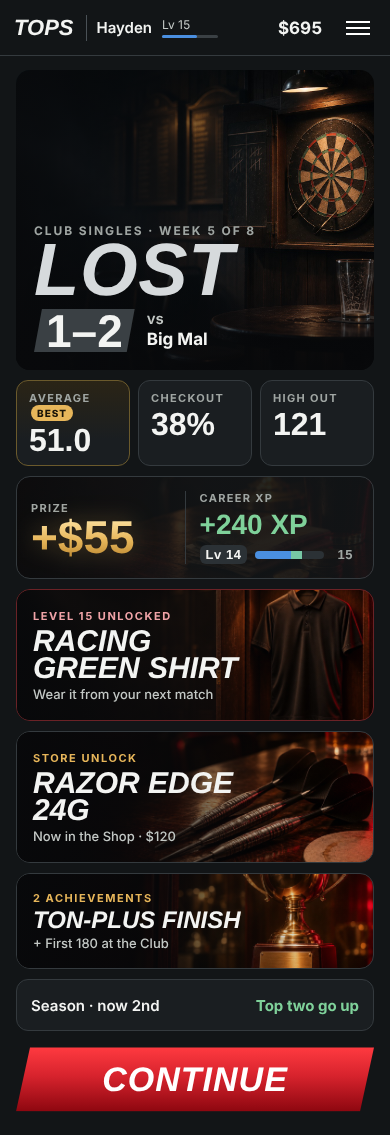
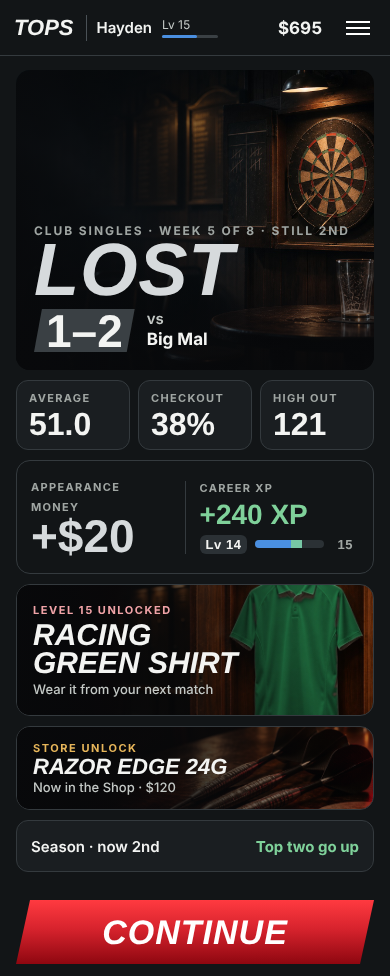
EXP-WIN r2: recoloured shirt, loss treatment, quieter secondary unlocks, sticky Continue
Claude-Session: https://claude.ai/code/session_01WmQEKYuzjKWgLqY2q8YZP3

diff --git a/wip/win/loss.html b/wip/win/loss.html
@@ -6,7 +6,7 @@
 .hd{height:56px;display:flex;align-items:center;gap:10px;padding:0 14px;border-bottom:1px solid var(--line)}
 .wm{font:italic 800 22px var(--d);padding-right:12px;border-right:1px solid #4a5156}.nm{font-weight:600;font-size:15px}.lv{display:flex;flex-direction:column;gap:3px}.lv small{font-size:12px;color:var(--ink2)}.lv i{display:block;width:56px;height:3px;background:#3a4044;border-radius:2px}.lv i b{display:block;width:62%;height:100%;background:var(--blue);border-radius:2px}
 .bank{margin-left:auto;font-weight:700;font-size:17px}.mn{width:24px;height:2px;background:#fff;box-shadow:0 6px #fff,0 -6px #fff;margin:0 6px 0 14px}
-.wrap{padding:14px 16px 24px;display:flex;flex-direction:column;gap:10px}
+.wrap{padding:14px 16px 12px;display:flex;flex-direction:column;gap:10px}
 .hero{position:relative;height:300px;border-radius:14px;overflow:hidden;background:#000 url(loss_club.jpg) 72% 50%/cover}
 .hero:before{content:"";position:absolute;inset:0;background:linear-gradient(90deg,rgba(8,9,11,.92) 0,rgba(8,9,11,.55) 48%,rgba(8,9,11,0) 75%),linear-gradient(0deg,rgba(8,9,11,.9) 0,rgba(8,9,11,0) 45%)}
 .lt{position:absolute;left:18px;right:18px;bottom:18px;display:flex;flex-direction:column;gap:2px}
@@ -20,7 +20,7 @@
 .t small{font:700 11px var(--b);letter-spacing:.12em;text-transform:uppercase;color:var(--ink3)}
 .t b{font:800 32px/.95 var(--d);font-variant-numeric:tabular-nums}
 .t.best{border-color:#6b5a2c;background:linear-gradient(180deg,#2a2416,#1a1e21 70%)}.t.best i{display:inline-block;vertical-align:1px;margin-left:2px;font:800 10px var(--b);letter-spacing:.1em;color:#1a1408;background:var(--gold);padding:2px 6px;border-radius:9px;font-style:normal}
-.rw{background:linear-gradient(90deg,rgba(18,21,23,.55),rgba(18,21,23,.92) 55%),url(rw_cash.jpg) 0% 60%/cover;border:1px solid var(--line);border-radius:14px;padding:14px;display:grid;grid-template-columns:1fr 1.25fr;gap:14px;align-items:center}
+.rw{background:linear-gradient(90deg,rgba(18,21,23,.55),rgba(18,21,23,.92) 55%),none;border:1px solid var(--line);border-radius:14px;padding:14px;display:grid;grid-template-columns:1fr 1.25fr;gap:14px;align-items:center}
 .cash small,.xp small{font:700 11px var(--b);letter-spacing:.12em;text-transform:uppercase;color:var(--ink3)}
 .cash b{display:block;font:800 46px/.95 var(--d);background:linear-gradient(180deg,#ffe6a8,#e7b65a 55%,#b9852f);-webkit-background-clip:text;background-clip:text;color:transparent;filter:drop-shadow(0 0 12px rgba(231,182,90,.35))}
 .xp{border-left:1px solid var(--line);padding-left:14px;display:flex;flex-direction:column;gap:6px}
@@ -29,20 +29,20 @@
 .bar i{flex:1;height:8px;border-radius:4px;background:#2b3135;overflow:hidden;position:relative}.bar i:before{content:"";position:absolute;inset:0 31% 0 0;background:var(--blue)}.bar i:after{content:"";position:absolute;top:0;bottom:0;left:52%;right:31%;background:var(--good);opacity:.85}
 .uc{position:relative;height:132px;border-radius:14px;overflow:hidden;border:1px solid var(--line);background:#000 center/cover}
 .uc:before{content:"";position:absolute;inset:0;background:linear-gradient(90deg,rgba(8,9,11,.94) 0,rgba(8,9,11,.7) 45%,rgba(8,9,11,.1) 80%)}
+.uc .tint{position:absolute;inset:0;mix-blend-mode:multiply;-webkit-mask:url(rw_shirt_mask.png) center/cover no-repeat;mask:url(rw_shirt_mask.png) center/cover no-repeat}
 .uc .x{position:absolute;left:16px;top:0;bottom:0;display:flex;flex-direction:column;justify-content:center;gap:4px;max-width:62%}
 .uc .x small{font:700 11px var(--b);letter-spacing:.14em;text-transform:uppercase}.uc .x b{font:italic 800 30px/.92 var(--d);text-transform:uppercase}.uc .x span{font:500 13px var(--b);color:var(--ink2)}
-.uc.ach small{color:var(--gold)}.uc.lvl{border-color:#6a2226}.uc.lvl small{color:#f0a3a7}.uc.store small{color:var(--gold)}
+.uc.ach small{color:var(--gold)}.uc.sec{height:84px}.uc.sec:before{background:linear-gradient(90deg,rgba(8,9,11,.96) 0,rgba(8,9,11,.82) 50%,rgba(8,9,11,.35) 85%)}.uc.sec .x b{font-size:22px}.uc.sec .x{gap:2px}.uc.lvl{border-color:var(--line)}.uc.lvl small{color:#f0a3a7}.uc.store small{color:var(--gold)}
 .row{display:flex;align-items:center;justify-content:space-between;background:var(--card);border:1px solid var(--line);border-radius:12px;padding:0 14px;min-height:52px;font:600 15px var(--b)}.row em{font-style:normal;color:var(--good);font-weight:700}
-.go{margin-top:6px;height:64px;display:flex;align-items:center;justify-content:center;font:italic 900 34px var(--d);text-transform:uppercase;letter-spacing:.03em;color:#fff;background:linear-gradient(180deg,#ff3a40,#d7232d 45%,#8e0710);clip-path:polygon(14px 0,100% 0,calc(100% - 14px) 100%,0 100%);filter:drop-shadow(0 0 18px rgba(227,16,27,.45))}
+.gow{position:sticky;bottom:0;z-index:3;margin:0 -16px -12px;padding:18px 16px 12px;background:linear-gradient(180deg,rgba(18,21,23,0),var(--bg) 40%)}.go{height:64px;display:flex;align-items:center;justify-content:center;font:italic 900 34px var(--d);text-transform:uppercase;letter-spacing:.03em;color:#fff;background:linear-gradient(180deg,#ff3a40,#d7232d 45%,#8e0710);clip-path:polygon(14px 0,100% 0,calc(100% - 14px) 100%,0 100%);filter:drop-shadow(0 0 18px rgba(227,16,27,.45))}
 </style></head><body>
 <div class="hd"><span class="wm">TOPS</span><span class="nm">Hayden</span><span class="lv"><small>Lv 15</small><i><b></b></i></span><span class="bank">$695</span><span class="mn"></span></div>
 <div class="wrap">
- <div class="hero"><div class="lt"><span class="kick" style="color:var(--ink3)">Club singles · week 5 of 8</span><span class="won" style="text-shadow:none;color:#d6dadc">Lost</span><div class="score"><b style="background:#3a4044">1–2</b><span>vs<em>Big Mal</em></span></div></div></div>
- <div class="tiles"><div class="t best"><small>Average <i>BEST</i></small><b>51.0</b></div><div class="t"><small>Checkout</small><b>38%</b></div><div class="t"><small>High out</small><b>121</b></div></div>
- <div class="rw"><div class="cash"><small>Prize</small><b>+$55</b></div><div class="xp"><small>Career XP</small><b>+240 XP</b><div class="bar"><span>Lv 14</span><i></i><span class="nx">15</span></div></div></div>
- <div class="uc lvl" style="background-image:url(rw_shirt.jpg)"><div class="x"><small>Level 15 unlocked</small><b>Racing green shirt</b><span>Wear it from your next match</span></div></div>
- <div class="uc store" style="background-image:url(rw_darts.jpg)"><div class="x"><small>Store unlock</small><b>Razor Edge 24g</b><span>Now in the Shop · $120</span></div></div>
- <div class="uc ach" style="background-image:url(rw_trophy.jpg);height:96px"><div class="x"><small>2 achievements</small><b style="font-size:24px">Ton-plus finish</b><span>+ First 180 at the Club</span></div></div>
- <div class="row"><span>Season · now 2nd</span><em>Top two go up</em></div>
- <div class="go">Continue</div>
+ <div class="hero"><div class="lt"><span class="kick" style="color:var(--ink3)">Club singles · week 5 of 8 · still 2nd</span><span class="won" style="text-shadow:none;color:#d6dadc">Lost</span><div class="score"><b style="background:#3a4044">1–2</b><span>vs<em>Big Mal</em></span></div></div></div>
+ <div class="tiles"><div class="t"><small>Average</small><b>51.0</b></div><div class="t"><small>Checkout</small><b>38%</b></div><div class="t"><small>High out</small><b>121</b></div></div>
+ <div class="rw"><div class="cash"><small>Appearance money</small><b style="background:none;color:#d6dadc;-webkit-text-fill-color:#d6dadc;filter:none">+$20</b></div><div class="xp"><small>Career XP</small><b>+240 XP</b><div class="bar"><span>Lv 14</span><i></i><span class="nx">15</span></div></div></div>
+ <div class="uc lvl" style="background-image:url(rw_shirt_green.jpg)"><div class="x"><small>Level 15 unlocked</small><b>Racing green shirt</b><span>Wear it from your next match</span></div></div>
+ <div class="uc store sec" style="background-image:url(rw_darts.jpg)"><div class="x"><small>Store unlock</small><b>Razor Edge 24g</b><span>Now in the Shop · $120</span></div></div>
+  <div class="row"><span>Season · now 2nd</span><em>Top two go up</em></div>
+ <div class="gow"><div class="go">Continue</div></div>
 </div></body></html>

diff --git a/wip/win/win.html b/wip/win/win.html
@@ -6,7 +6,7 @@
 .hd{height:56px;display:flex;align-items:center;gap:10px;padding:0 14px;border-bottom:1px solid var(--line)}
 .wm{font:italic 800 22px var(--d);padding-right:12px;border-right:1px solid #4a5156}.nm{font-weight:600;font-size:15px}.lv{display:flex;flex-direction:column;gap:3px}.lv small{font-size:12px;color:var(--ink2)}.lv i{display:block;width:56px;height:3px;background:#3a4044;border-radius:2px}.lv i b{display:block;width:62%;height:100%;background:var(--blue);border-radius:2px}
 .bank{margin-left:auto;font-weight:700;font-size:17px}.mn{width:24px;height:2px;background:#fff;box-shadow:0 6px #fff,0 -6px #fff;margin:0 6px 0 14px}
-.wrap{padding:14px 16px 24px;display:flex;flex-direction:column;gap:10px}
+.wrap{padding:14px 16px 12px;display:flex;flex-direction:column;gap:10px}
 .hero{position:relative;height:300px;border-radius:14px;overflow:hidden;background:#000 url(win_club.jpg) 72% 50%/cover}
 .hero:before{content:"";position:absolute;inset:0;background:linear-gradient(90deg,rgba(8,9,11,.92) 0,rgba(8,9,11,.55) 48%,rgba(8,9,11,0) 75%),linear-gradient(0deg,rgba(8,9,11,.9) 0,rgba(8,9,11,0) 45%)}
 .lt{position:absolute;left:18px;right:18px;bottom:18px;display:flex;flex-direction:column;gap:2px}
@@ -29,20 +29,21 @@
 .bar i{flex:1;height:8px;border-radius:4px;background:#2b3135;overflow:hidden;position:relative}.bar i:before{content:"";position:absolute;inset:0 31% 0 0;background:var(--blue)}.bar i:after{content:"";position:absolute;top:0;bottom:0;left:52%;right:31%;background:var(--good);opacity:.85}
 .uc{position:relative;height:132px;border-radius:14px;overflow:hidden;border:1px solid var(--line);background:#000 center/cover}
 .uc:before{content:"";position:absolute;inset:0;background:linear-gradient(90deg,rgba(8,9,11,.94) 0,rgba(8,9,11,.7) 45%,rgba(8,9,11,.1) 80%)}
+.uc .tint{position:absolute;inset:0;mix-blend-mode:multiply;-webkit-mask:url(rw_shirt_mask.png) center/cover no-repeat;mask:url(rw_shirt_mask.png) center/cover no-repeat}
 .uc .x{position:absolute;left:16px;top:0;bottom:0;display:flex;flex-direction:column;justify-content:center;gap:4px;max-width:62%}
 .uc .x small{font:700 11px var(--b);letter-spacing:.14em;text-transform:uppercase}.uc .x b{font:italic 800 30px/.92 var(--d);text-transform:uppercase}.uc .x span{font:500 13px var(--b);color:var(--ink2)}
-.uc.ach small{color:var(--gold)}.uc.lvl{border-color:#6a2226}.uc.lvl small{color:#f0a3a7}.uc.store small{color:var(--gold)}
+.uc.ach small{color:var(--gold)}.uc.sec{height:84px}.uc.sec:before{background:linear-gradient(90deg,rgba(8,9,11,.96) 0,rgba(8,9,11,.82) 50%,rgba(8,9,11,.35) 85%)}.uc.sec .x b{font-size:22px}.uc.sec .x{gap:2px}.uc.lvl{border-color:#6a2226}.uc.lvl small{color:#f0a3a7}.uc.store small{color:var(--gold)}
 .row{display:flex;align-items:center;justify-content:space-between;background:var(--card);border:1px solid var(--line);border-radius:12px;padding:0 14px;min-height:52px;font:600 15px var(--b)}.row em{font-style:normal;color:var(--good);font-weight:700}
-.go{margin-top:6px;height:64px;display:flex;align-items:center;justify-content:center;font:italic 900 34px var(--d);text-transform:uppercase;letter-spacing:.03em;color:#fff;background:linear-gradient(180deg,#ff3a40,#d7232d 45%,#8e0710);clip-path:polygon(14px 0,100% 0,calc(100% - 14px) 100%,0 100%);filter:drop-shadow(0 0 18px rgba(227,16,27,.45))}
+.gow{position:sticky;bottom:0;z-index:3;margin:0 -16px -12px;padding:18px 16px 12px;background:linear-gradient(180deg,rgba(18,21,23,0),var(--bg) 40%)}.go{height:64px;display:flex;align-items:center;justify-content:center;font:italic 900 34px var(--d);text-transform:uppercase;letter-spacing:.03em;color:#fff;background:linear-gradient(180deg,#ff3a40,#d7232d 45%,#8e0710);clip-path:polygon(14px 0,100% 0,calc(100% - 14px) 100%,0 100%);filter:drop-shadow(0 0 18px rgba(227,16,27,.45))}
 </style></head><body>
 <div class="hd"><span class="wm">TOPS</span><span class="nm">Hayden</span><span class="lv"><small>Lv 15</small><i><b></b></i></span><span class="bank">$695</span><span class="mn"></span></div>
 <div class="wrap">
  <div class="hero"><div class="lt"><span class="kick">Club singles · week 5 of 8</span><span class="won">Won</span><div class="score"><b>2–1</b><span>vs<em>Big Mal</em></span></div></div></div>
  <div class="tiles"><div class="t best"><small>Average <i>BEST</i></small><b>51.0</b></div><div class="t"><small>Checkout</small><b>38%</b></div><div class="t"><small>High out</small><b>121</b></div></div>
  <div class="rw"><div class="cash"><small>Prize</small><b>+$55</b></div><div class="xp"><small>Career XP</small><b>+240 XP</b><div class="bar"><span>Lv 14</span><i></i><span class="nx">15</span></div></div></div>
- <div class="uc lvl" style="background-image:url(rw_shirt.jpg)"><div class="x"><small>Level 15 unlocked</small><b>Racing green shirt</b><span>Wear it from your next match</span></div></div>
- <div class="uc store" style="background-image:url(rw_darts.jpg)"><div class="x"><small>Store unlock</small><b>Razor Edge 24g</b><span>Now in the Shop · $120</span></div></div>
- <div class="uc ach" style="background-image:url(rw_trophy.jpg);height:96px"><div class="x"><small>2 achievements</small><b style="font-size:24px">Ton-plus finish</b><span>+ First 180 at the Club</span></div></div>
+ <div class="uc lvl" style="background-image:url(rw_shirt_green.jpg)"><div class="x"><small>Level 15 unlocked</small><b>Racing green shirt</b><span>Wear it from your next match</span></div></div>
+ <div class="uc store sec" style="background-image:url(rw_darts.jpg)"><div class="x"><small>Store unlock</small><b>Razor Edge 24g</b><span>Now in the Shop · $120</span></div></div>
+ <div class="uc ach sec" style="background-image:url(rw_trophy.jpg)"><div class="x"><small>2 achievements</small><b>Ton-plus finish</b><span>+ First 180 at the Club</span></div></div>
  <div class="row"><span>Season · now 2nd</span><em>Top two go up</em></div>
- <div class="go">Continue</div>
+ <div class="gow"><div class="go">Continue</div></div>
 </div></body></html>
